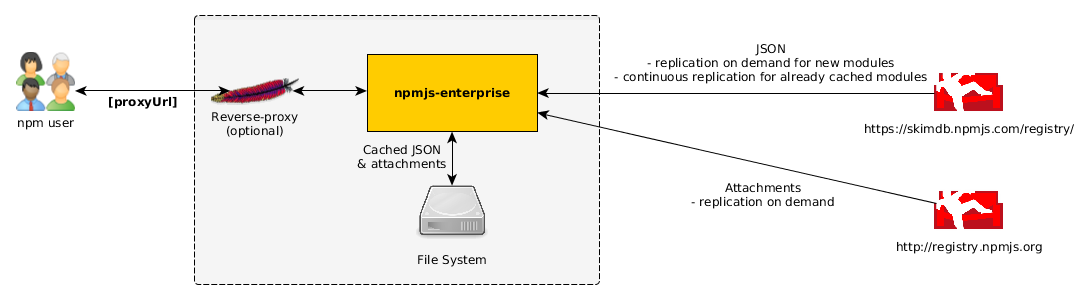
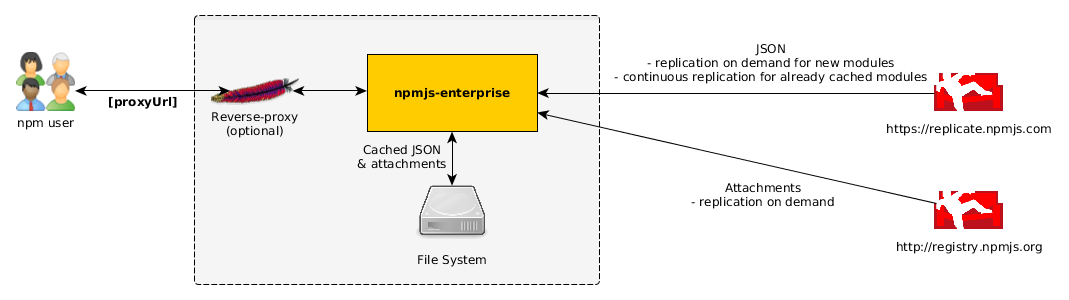
FIX #2: scope modules JSON is now cached thanks to https://replicate.npmjs.com

diff --git a/lib/api.js b/lib/api.js
@@ -119,9 +119,8 @@ function proxyToCentralRepositoryAndReplaceUrls(req, resp) {
  * @param {Module} module - module
  */
 api.manageModule = function(req, resp, module) {
-  // FIXME: For now, scoped modules are not synced via couchdb (https://github.com/npm/registry/issues/13), so we query the central one instead
   // TODO: We do NOT handle requests with version for now
-  if (module.scoped || module.version) {
+  if (module.version) {
     proxyToCentralRepositoryAndReplaceUrls(req, resp);
   } else {
     var filePath = path.join(config.attachmentPath, module.name + '.json');
@@ -168,7 +167,10 @@ api.initChangesSync = function() {
   mkdirp.sync(path.dirname(sequenceFile));
 
   var stream = changes(function(data, done) {
-    var filePath = path.join(config.attachmentPath, data.id + '.json');
+    // Replace "/" by "%2f" for scoped modules
+    var moduleName = data.id.replace('/', '%2f');
+    var fileName = moduleName + '.json';
+    var filePath = path.join(config.attachmentPath, fileName);
 
     fs.exists(filePath, function(exists) {
       if (exists) {
@@ -177,7 +179,7 @@ api.initChangesSync = function() {
         request(
           {
             baseUrl: config.centralURL,
-            url: data.id
+            url: moduleName
           },
           done
         ).pipe(fs.createWriteStream(filePath));
@@ -187,7 +189,7 @@ api.initChangesSync = function() {
       }
     });
   }, {
-    db: config.skimdbURL,
+    db: config.syncURL,
     now: true,
     sequence: sequenceFile,
     include_docs: false,
@@ -196,9 +198,9 @@ api.initChangesSync = function() {
 
   var seq = stream.sequence();
   if (seq === 0) {
-    logger.debug('Starting sync from latest sequence number on %s', config.skimdbURL);
+    logger.debug('Starting sync from latest sequence number on %s', config.syncURL);
   } else {
-    logger.debug('Restarting sync from %s since sequence number %s', config.skimdbURL, seq);
+    logger.debug('Restarting sync from %s since sequence number %s', config.syncURL, seq);
   }
 };
 

diff --git a/spec/test/urlUtils.spec.js b/spec/test/urlUtils.spec.js
@@ -9,7 +9,6 @@
       expect(module).toBeTruthy();
       expect(module.name).toBe('grunt');
       expect(module.version).not.toBeDefined();
-      expect(module.scoped).toBeFalsy();
     });
 
     it('of "/grunt/" should detect module "grunt"', function() {
@@ -17,7 +16,6 @@
       expect(module).toBeTruthy();
       expect(module.name).toBe('grunt');
       expect(module.version).not.toBeDefined();
-      expect(module.scoped).toBeFalsy();
     });
 
     it('of "/grunt/1.0.0" should detect module "grunt" and version "1.0.0"', function() {
@@ -25,7 +23,6 @@
       expect(module).toBeTruthy();
       expect(module.name).toBe('grunt');
       expect(module.version).toBe("1.0.0");
-      expect(module.scoped).toBeFalsy();
     });
 
     it('of "/grunt/1.0.0/" should detect module "grunt" and version "1.0.0"', function() {
@@ -33,7 +30,6 @@
       expect(module).toBeTruthy();
       expect(module.name).toBe('grunt');
       expect(module.version).toBe("1.0.0");
-      expect(module.scoped).toBeFalsy();
     });
 
     it('of "/@jenkins-cd%2fjs-extensions" should detect module "@jenkins-cd%2fjs-extensions"', function() {
@@ -41,7 +37,6 @@
       expect(module).toBeTruthy();
       expect(module.name).toBe('@jenkins-cd%2fjs-extensions');
       expect(module.version).not.toBeDefined();
-      expect(module.scoped).toBeTruthy();
     });
 
     it('of "/@jenkins-cd%2fjs-extensions/" should detect module "@jenkins-cd%2fjs-extensions"', function() {
@@ -49,7 +44,6 @@
       expect(module).toBeTruthy();
       expect(module.name).toBe('@jenkins-cd%2fjs-extensions');
       expect(module.version).not.toBeDefined();
-      expect(module.scoped).toBeTruthy();
     });
 
     it('of "/not/a/module" should detect module "grunt"', function() {

diff --git a/lib/urlUtils.js b/lib/urlUtils.js
@@ -2,7 +2,6 @@
 var versionRegexp = '(\\d+\\.\\d+\\.\\d+(?:-(?:0|[1-9]\\d*|\\d*[a-zA-Z-][a-zA-Z0-9-]*)(?:\\.(?:0|[1-9]\\d*|\\d*[a-zA-Z-][a-zA-Z0-9-]*))*)?(?:\\+[0-9A-Za-z-]+(?:\\.[0-9A-Za-z-]+)*)?)';
 var tarballRegexp = new RegExp('^\\/((?:@[^/]+\\/)?[^/]+)\\/-\\/[^/]+?-' + versionRegexp + '\\.tgz$');
 var moduleRegexp = new RegExp('^\\/([^/]+)(?:/?([^/]+)?/?)$');
-var scopedModuleRegexp = new RegExp('^\\/\\@([^/]+)%2f.+/?$');
 
 var api = {};
 
@@ -10,13 +9,11 @@ var api = {};
  * Module
  * @param {String} name - name of the module
  * @param {String} version - version of the module
- * @param {Boolean} scoped - whether it is a scoped module
  * @constructor
  */
-function Module(name, version, scoped) {
+function Module(name, version) {
   this.name = name;
   this.version = version;
-  this.scoped = scoped;
 }
 
 /**
@@ -42,8 +39,7 @@ api.module = function(url) {
   } else {
     return new Module(
       moduleMatch[1],
-      moduleMatch[2],
-      url.match(scopedModuleRegexp) !== null
+      moduleMatch[2]
     );
   }
 };
@@ -59,6 +55,7 @@ api.tarball = function(url) {
     return null;
   } else {
     return new Tarball(
+      // Replace "/" by "%2f" for scoped modules
       tarballMatch[1].replace('/', '%2f'),
       tarballMatch[2]
     );

diff --git a/lib/configLoader.js b/lib/configLoader.js
@@ -25,7 +25,7 @@ config.port = config.port || 1337;
 
 config.centralURL = config.centralURL || 'https://registry.npmjs.org';
 
-config.skimdbURL = config.skimdbURL || 'https://skimdb.npmjs.com/registry';
+config.syncURL = config.syncURL || 'https://replicate.npmjs.com';
 
 config.logger = logger;
 
